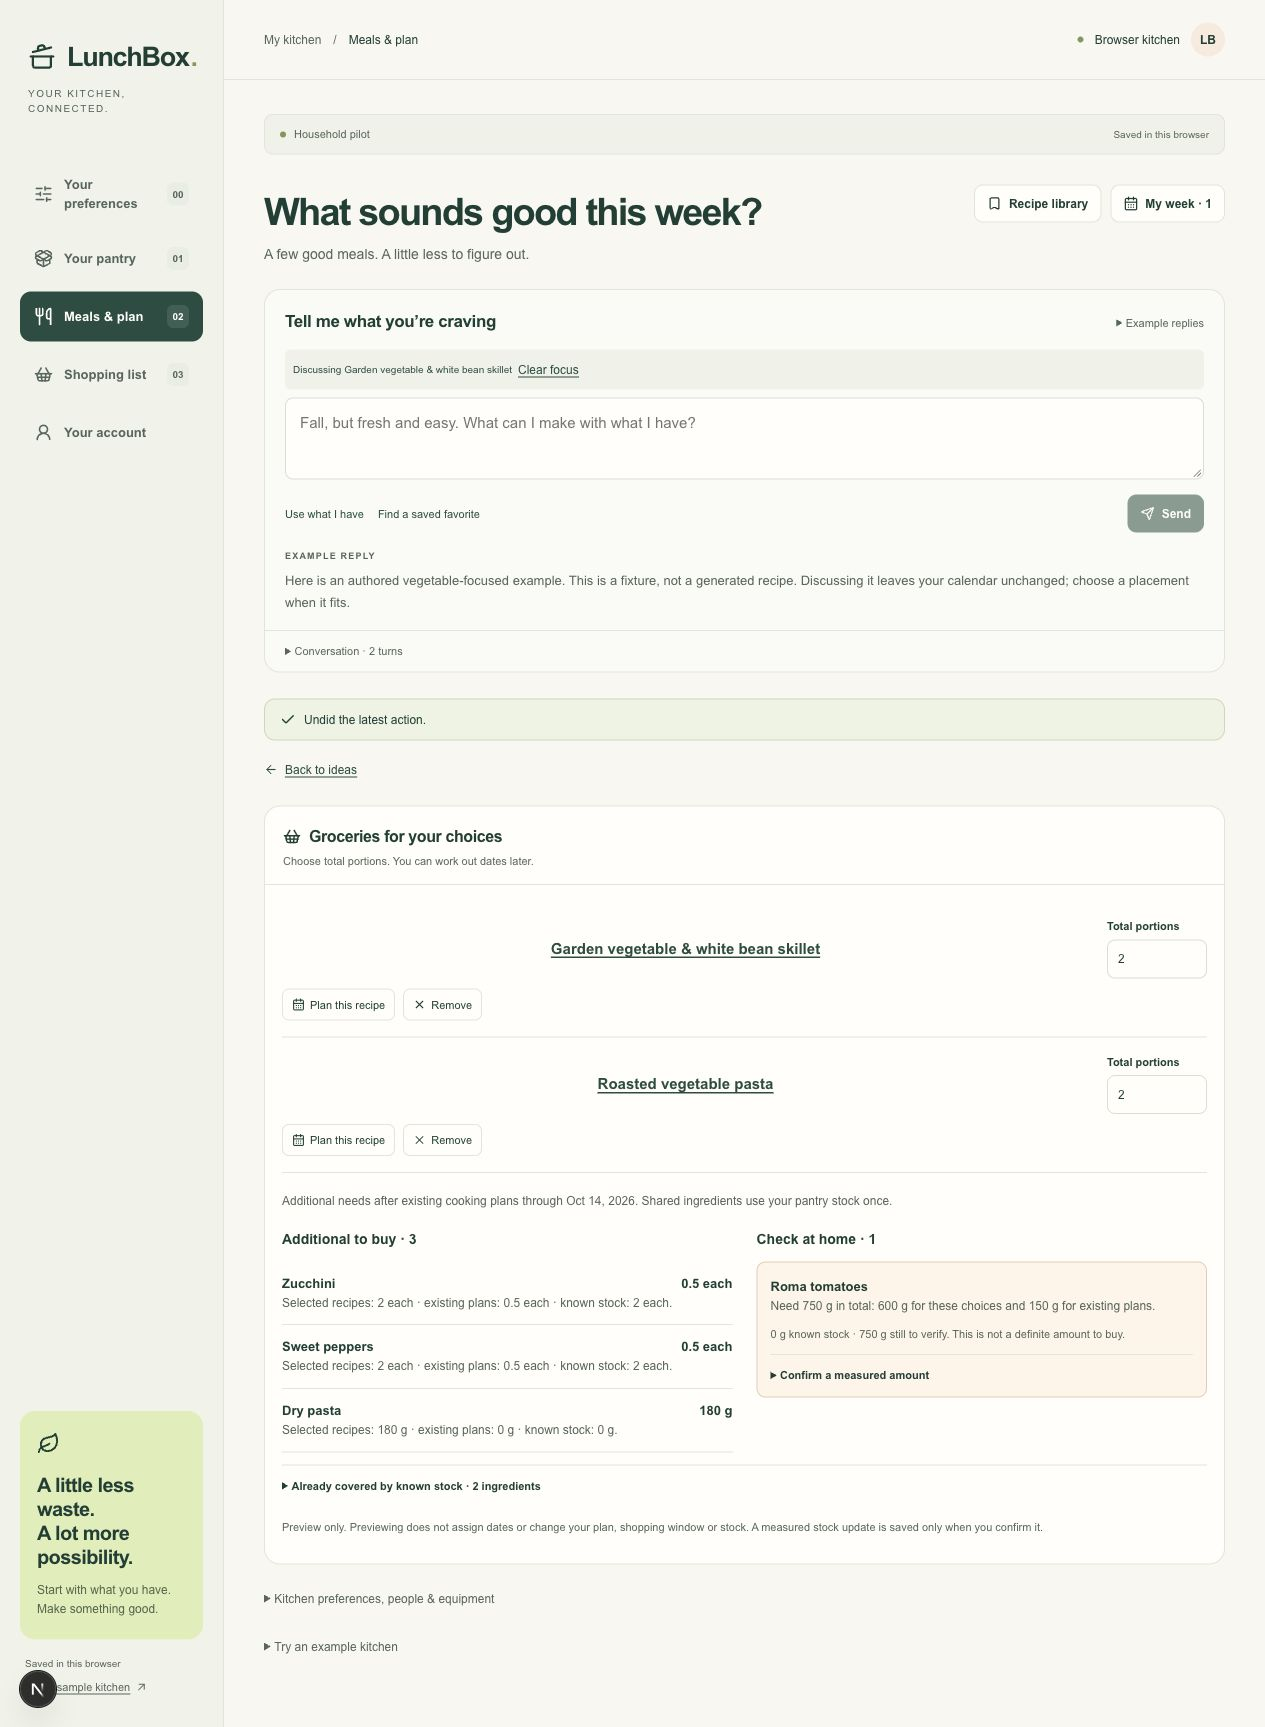
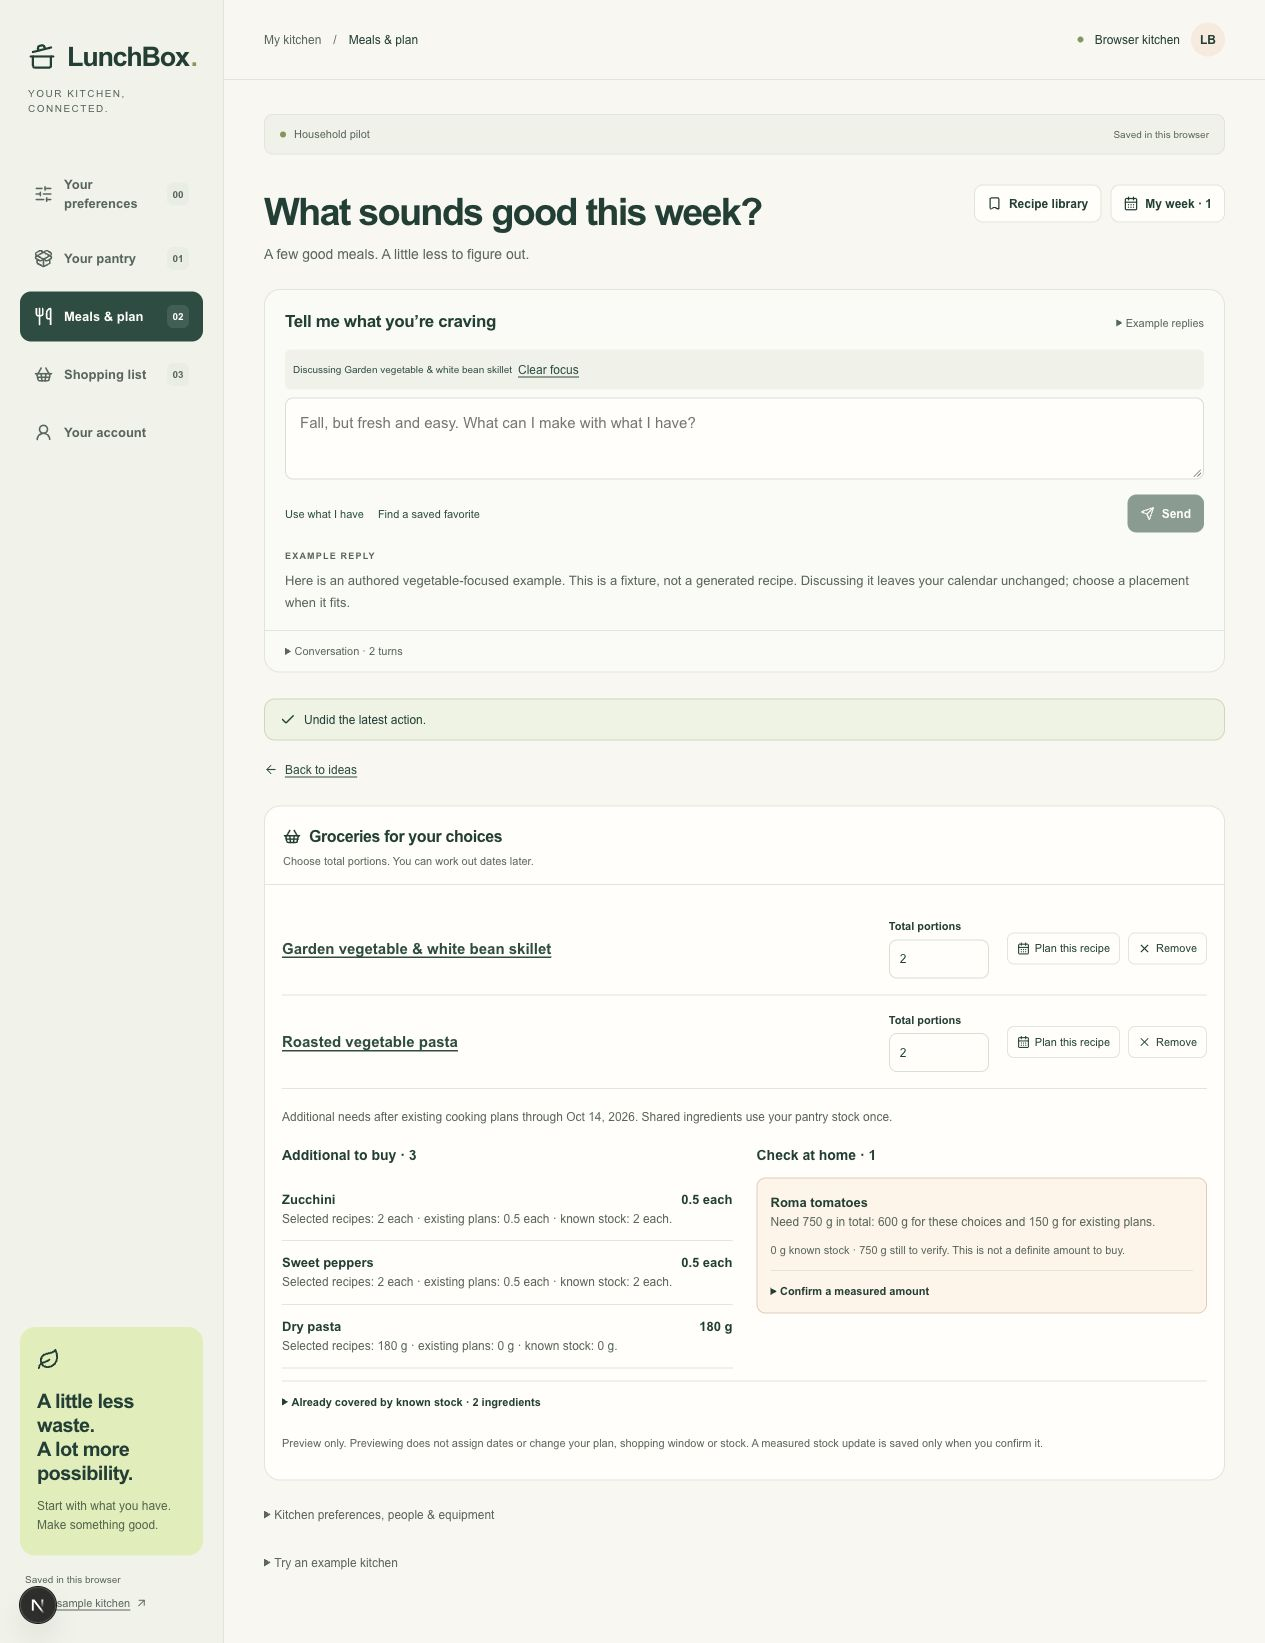
Keep grocery recipe rows compact and left aligned

diff --git a/src/components/selected-meal-groceries.module.css b/src/components/selected-meal-groceries.module.css
@@ -1,8 +1,8 @@
 .recipes { display: grid; gap: 0; margin-bottom: 18px; }
-.recipe { display: grid; grid-template-columns: minmax(0, 1fr) 100px; align-items: center; gap: 10px 18px; padding: 16px 0; border-bottom: 1px solid var(--line); min-width: 0; }
-.recipeName { font-size: 15px; font-weight: 650; overflow-wrap: anywhere; }
+.recipe { display: grid; grid-template-columns: minmax(0, 1fr) 100px auto; align-items: center; gap: 10px 18px; padding: 16px 0; border-bottom: 1px solid var(--line); min-width: 0; }
+.recipeName { font-size: 15px; font-weight: 650; overflow-wrap: anywhere; text-align: left; justify-self: start; }
 .portions { margin: 0; }
-.recipeActions { grid-column: 1 / -1; display: flex; gap: 8px; flex-wrap: wrap; align-items: center; }
+.recipeActions { display: flex; gap: 8px; flex-wrap: wrap; align-items: center; }
 .recipeNotice { grid-column: 1 / -1; display: grid; justify-items: start; gap: 9px; margin: 0; }
 .recipeNotice p { margin: 0; }
 .scope { margin: 18px 0; }
@@ -20,5 +20,5 @@
 .stockForm button { flex-shrink: 0; }
 .validation { grid-column: 1 / -1; margin: 0; font-size: 12px; color: #a33131; }
 .previewNote { padding-top: 15px; }
-@media (max-width: 700px) { .columns { grid-template-columns: minmax(0, 1fr); gap: 20px; } }
+@media (max-width: 700px) { .recipe { grid-template-columns: minmax(0, 1fr) 100px; } .recipeActions { grid-column: 1 / -1; } .columns { grid-template-columns: minmax(0, 1fr); gap: 20px; } }
 @media (max-width: 380px) { .recipe { grid-template-columns: minmax(0, 1fr) 82px; gap: 10px; } .removeLabel { display: none; } .stockForm button { width: 100%; } }
